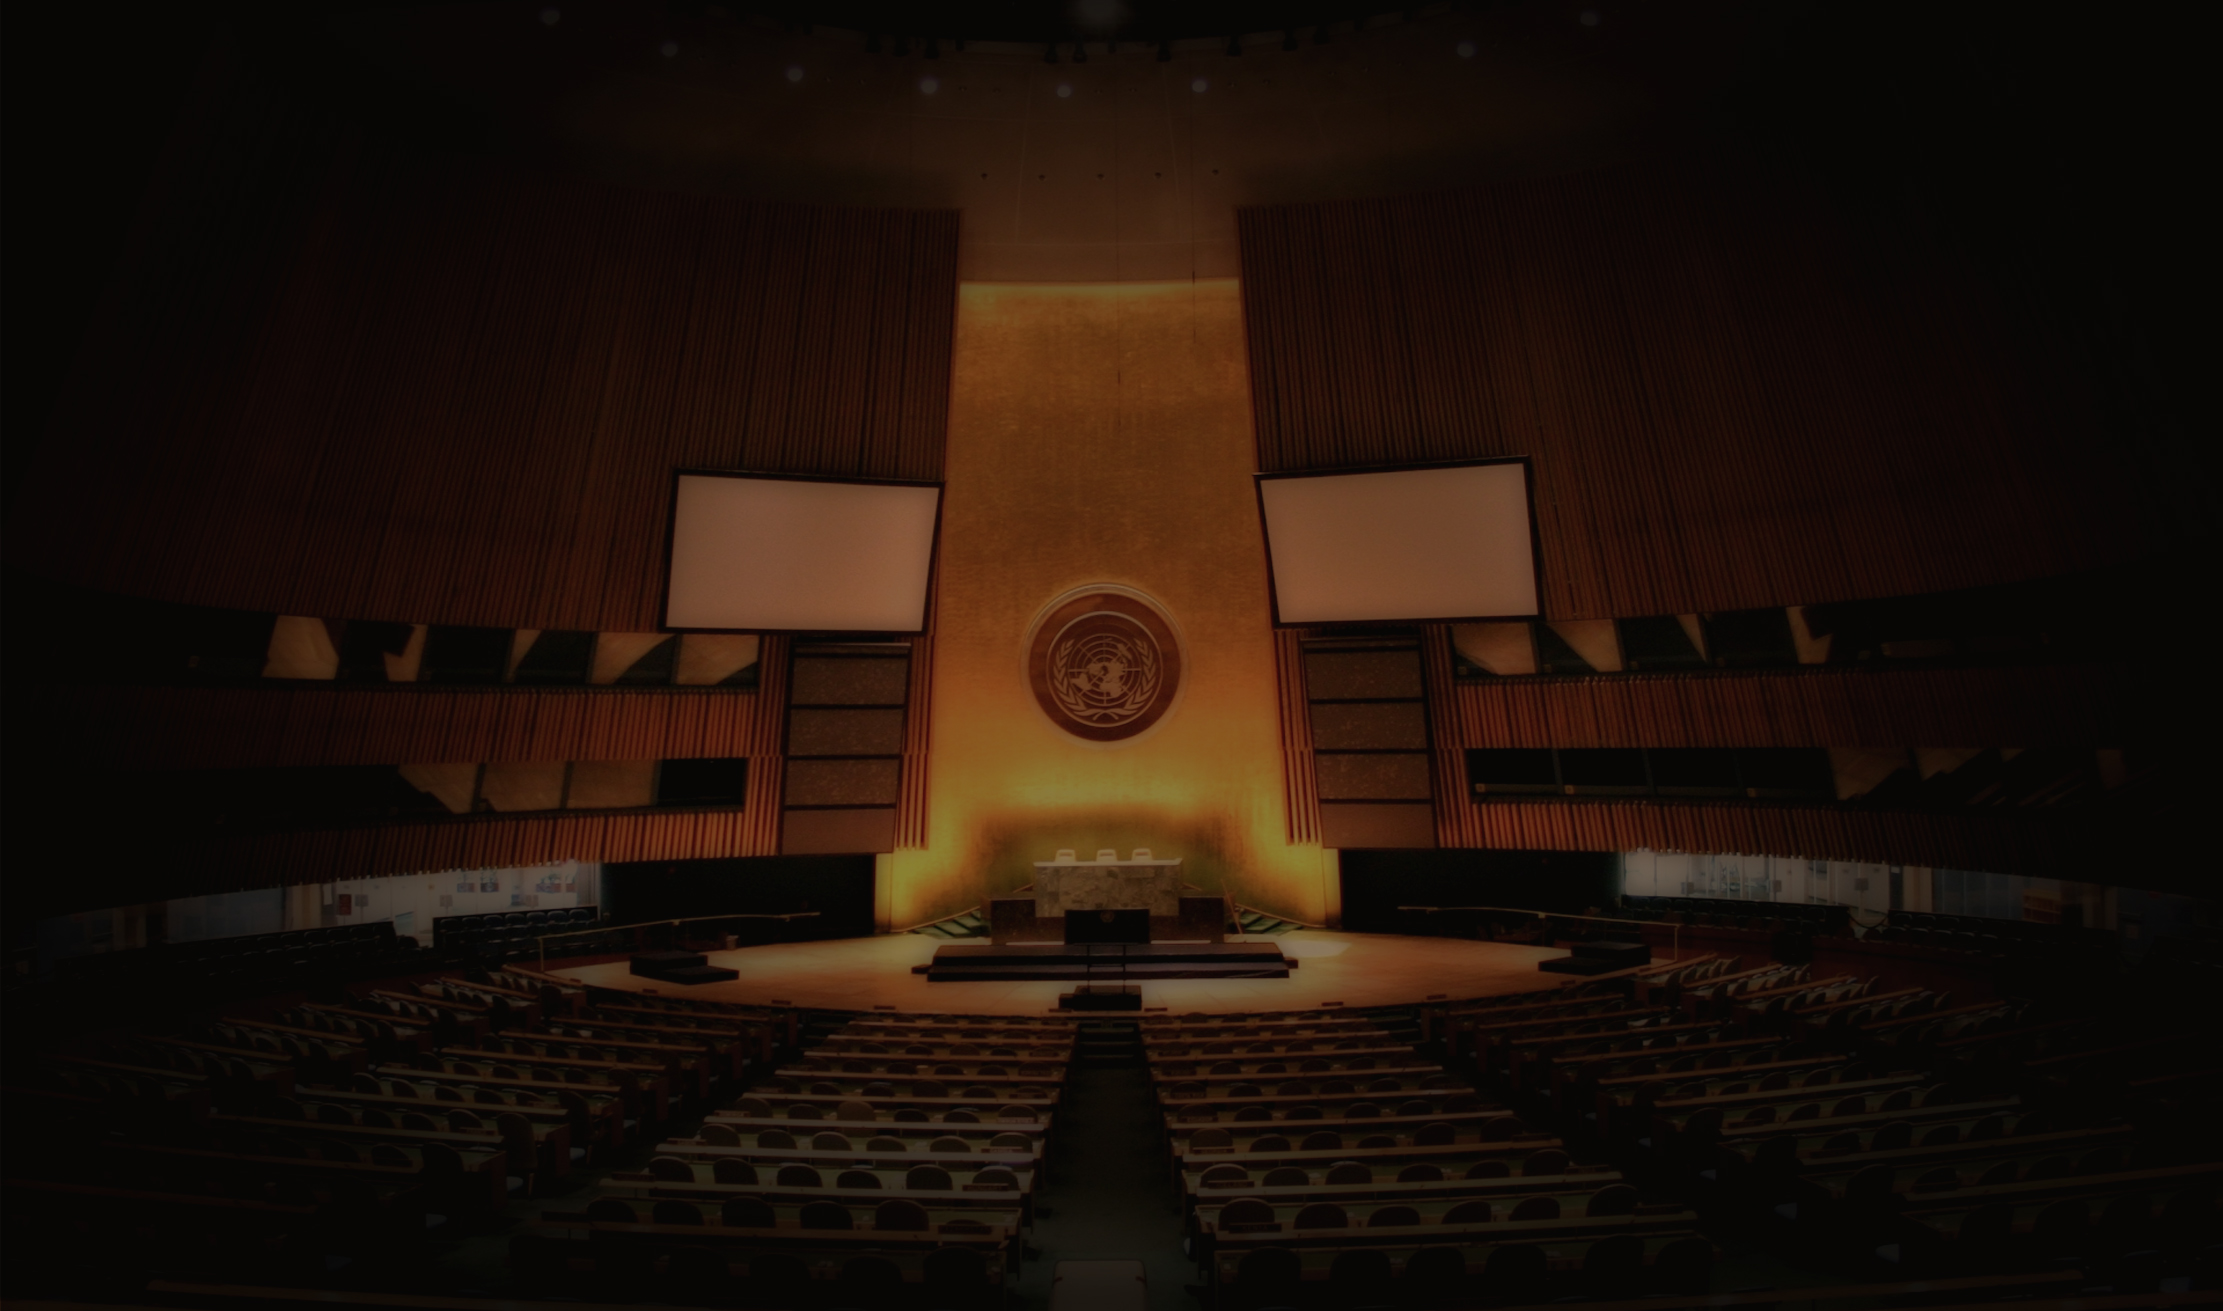
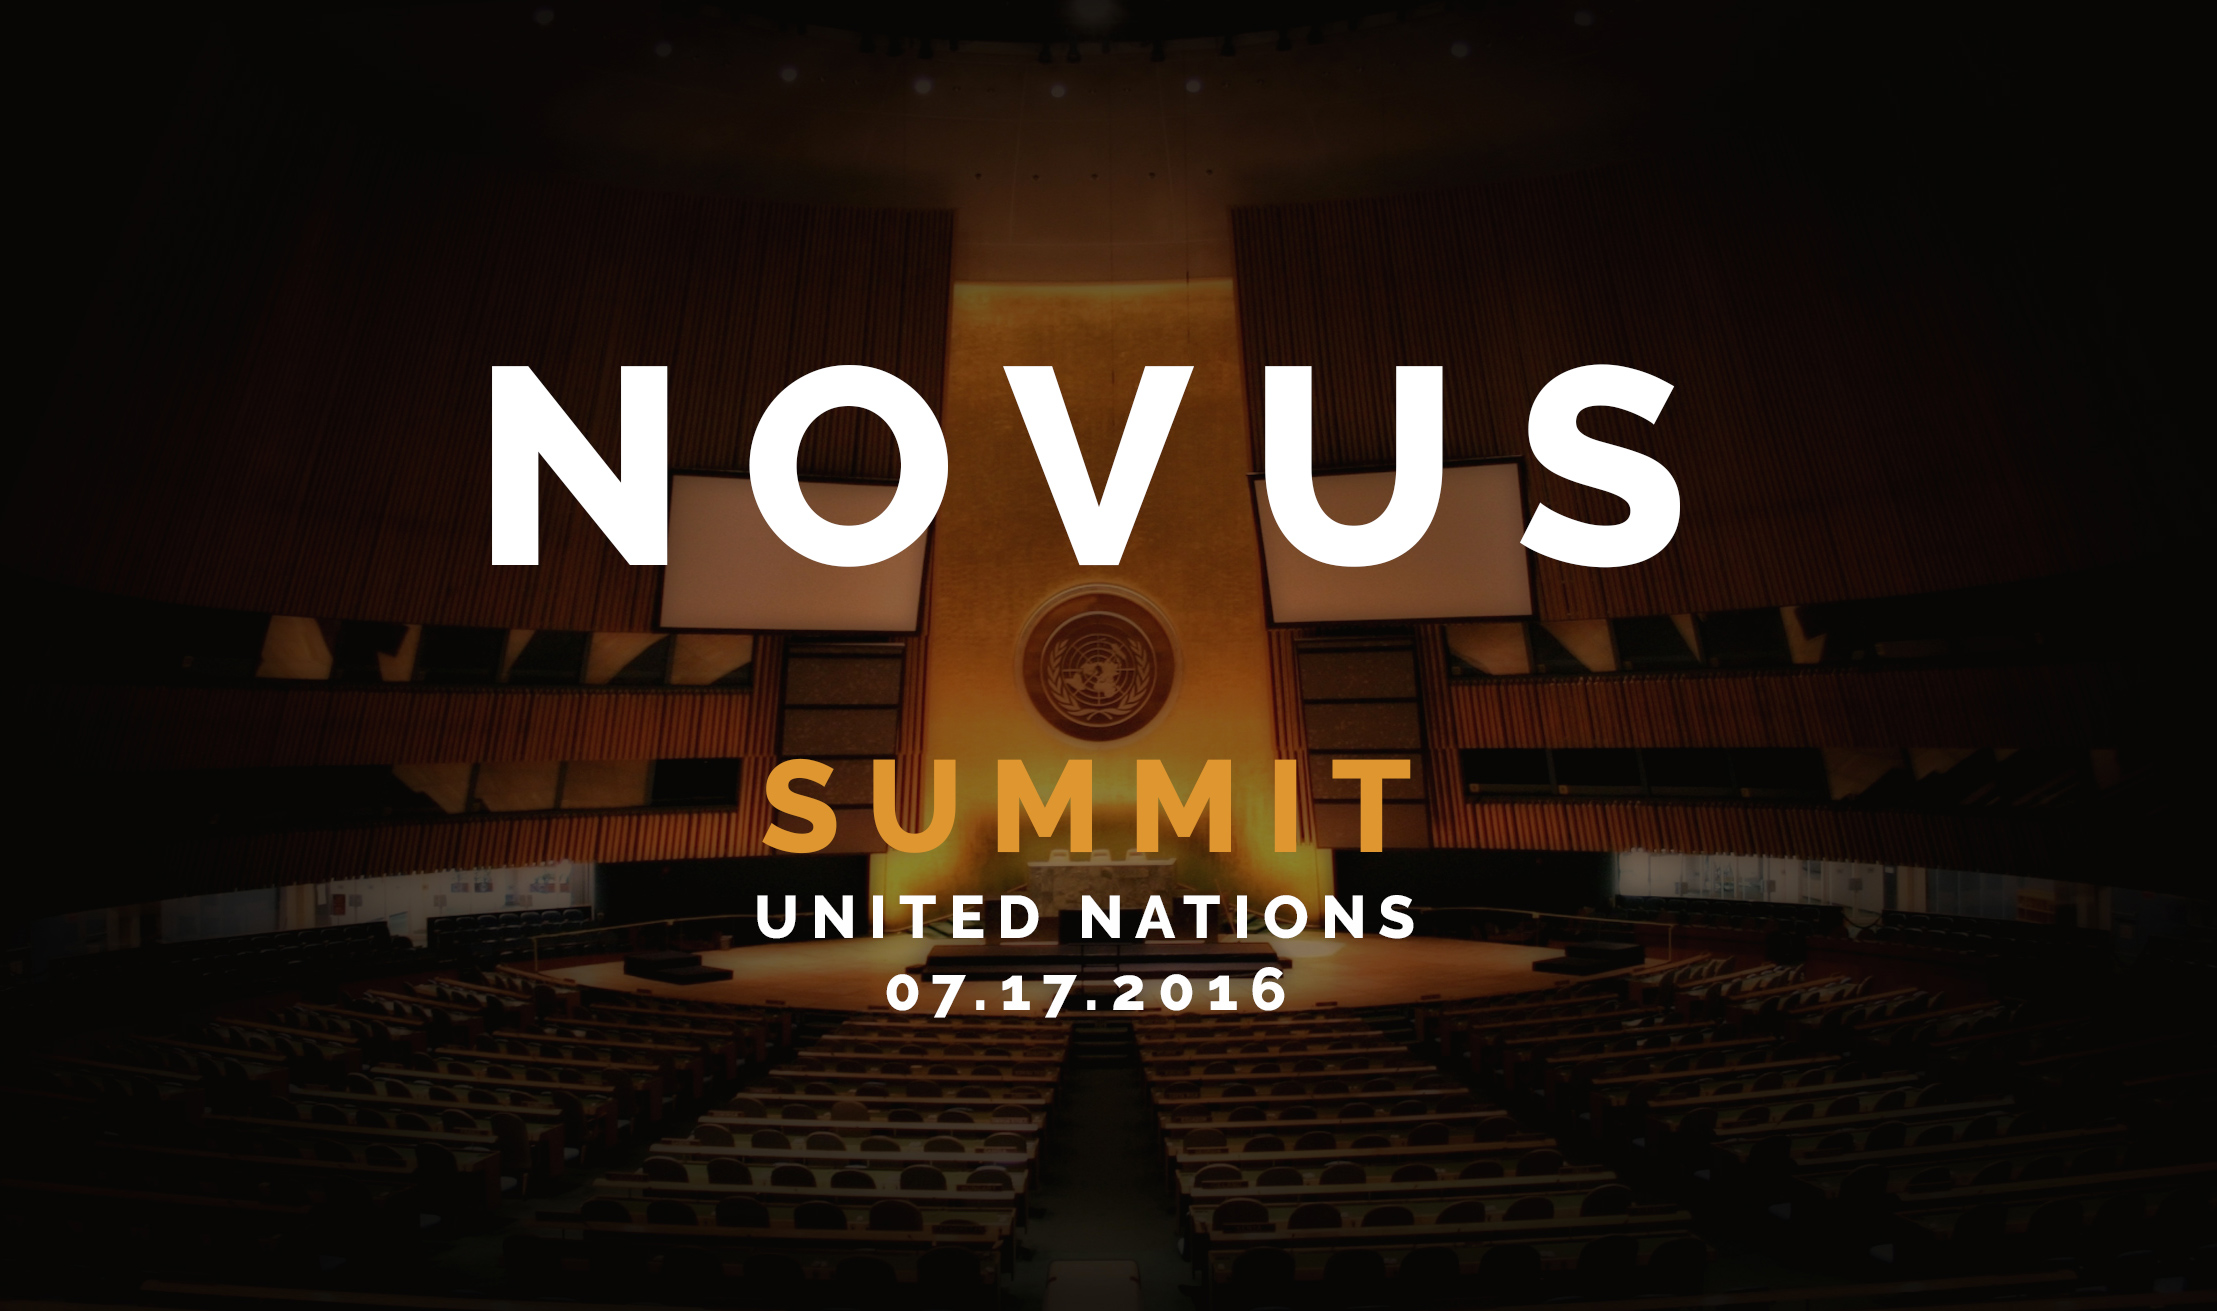
intro background change

Changed region(s): [[0.2179, 0.2746, 0.6847, 0.7933], [0.6847, 0.2746, 0.7781, 0.4577], [0.4668, 0.4882, 0.5291, 0.5492]]

diff --git a/public/stylesheets/main.css b/public/stylesheets/main.css
@@ -8,7 +8,13 @@ p {
 
 .siteHeader {
   font-family: 'Raleway', sans-serif;
-  font-size: px; }
+  font-weight: 800;
+  letter-spacing: 30px;
+  display: none; }
+
+.siteSubHeader {
+  padding-top: 20px;
+  display: none; }
 
 .bottomNav {
   display: none !important; }
@@ -23,15 +29,27 @@ p {
   width: 45px;
   height: 45px; }
 
+.introbg {
+  background-image: url(/images/homebg.jpg); }
+
 @media only screen and (max-device-width: 667px) and (-webkit-min-device-pixel-ratio: 2) {
   p {
     font-size: 18px; }
 
   .social {
-    display: none; } }
+    display: none; }
+
+  .introbg {
+    background-image: url(/images/homebg_notext.jpg); }
+
+  .siteHeader, .siteSubHeader {
+    display: block; } }
 @media only screen and (min-device-width: 668px) {
   #mobileIntro {
     display: none; } }
+.introContainer {
+  padding-top: 0px !important; }
+
 /* change panel top on scroll * white */
 .page-loaded .slides:not(.firstSlide) .panel.top {
   background: rgba(28, 28, 28, 0.925);

diff --git a/public/stylesheets/main.scss b/public/stylesheets/main.scss
@@ -10,7 +10,14 @@ p {
 
 .siteHeader {
   font-family: 'Raleway', sans-serif;
-  font-size: 110px;
+  font-weight: 800;
+  letter-spacing: 30px;
+  display: none;
+}
+
+.siteSubHeader {
+  padding-top: 20px;
+  display: none;
 }
 
 .bottomNav {
@@ -35,6 +42,10 @@ p {
   }
 }
 
+.introbg {
+  background-image:url(/images/homebg.jpg);
+}
+
 @media only screen
 and (max-device-width: 667px)
 and (-webkit-min-device-pixel-ratio: 2) {
@@ -45,6 +56,14 @@ and (-webkit-min-device-pixel-ratio: 2) {
   .social {
     display: none;
   }
+
+  .introbg {
+    background-image:url(/images/homebg_notext.jpg);
+  }
+
+  .siteHeader, .siteSubHeader {
+    display: block;
+  }
 }
 
 @media only screen
@@ -53,6 +72,10 @@ and (min-device-width: 668px)
   #mobileIntro {
     display: none;
   }
+}
+
+.introContainer {
+  padding-top: 0px !important;
 }
 
 /* change panel top on scroll * white */
